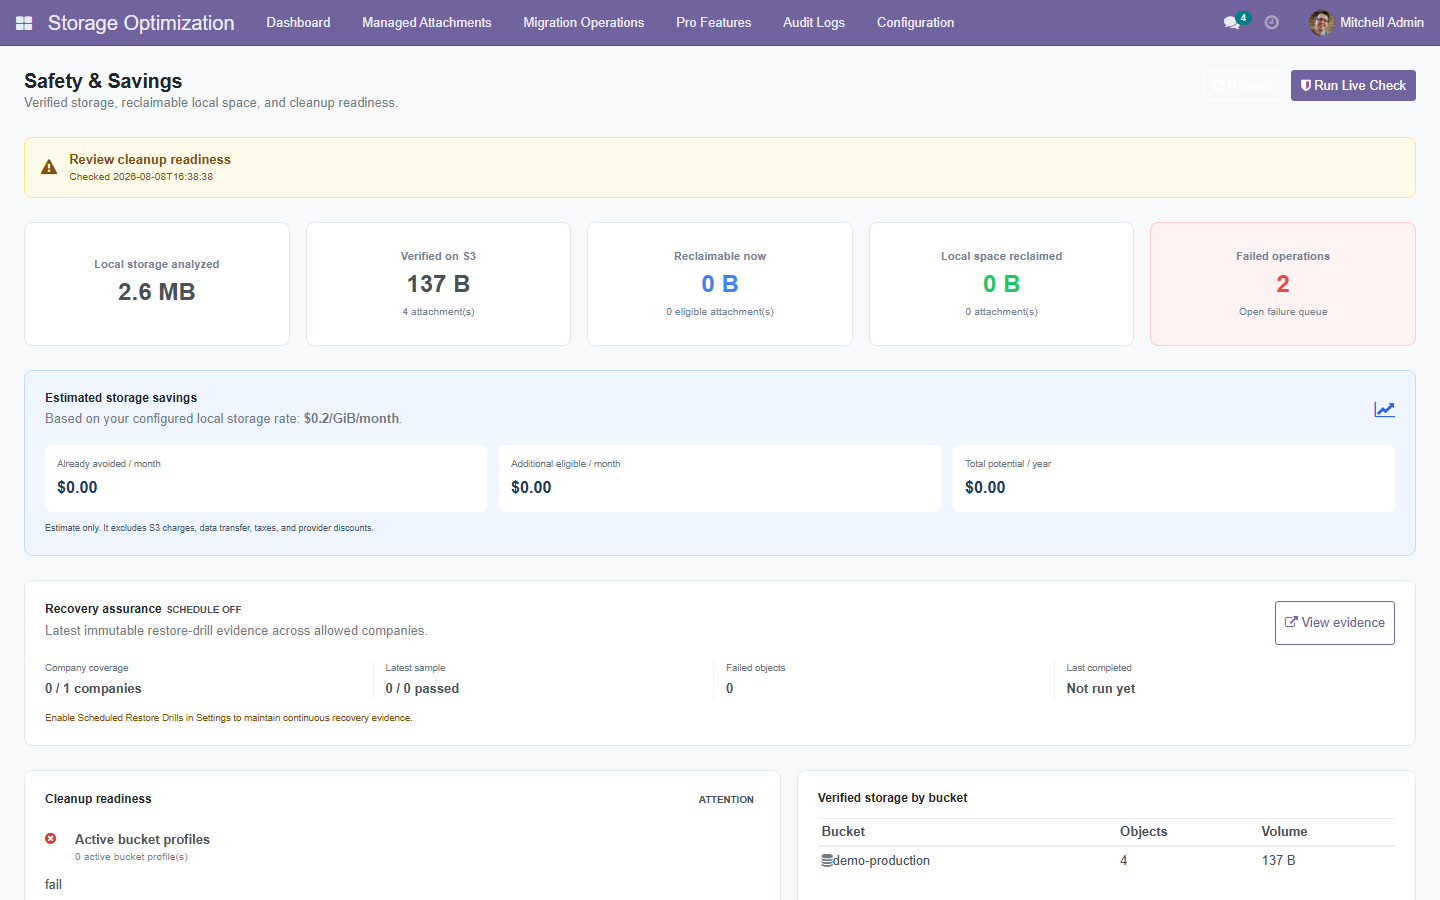
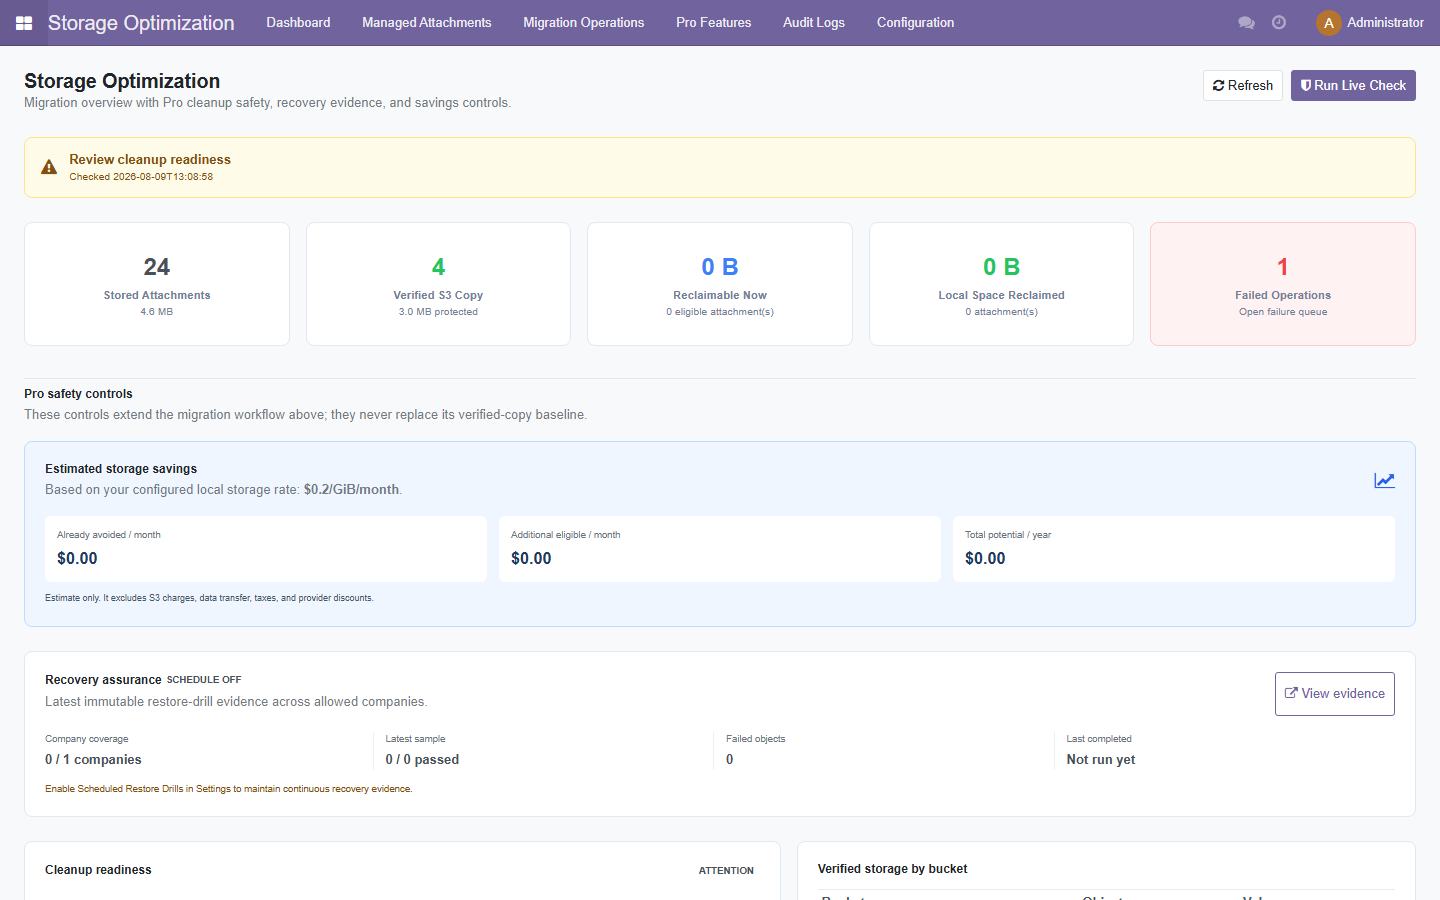
Align Pro dashboard with Free edition

diff --git a/attachment_optimizer_pro/static/description/index.html b/attachment_optimizer_pro/static/description/index.html
@@ -96,6 +96,6 @@ For subsequent modules, update content inside sections only. Do not alter sectio
     </div>
 
     <!-- FOOTER -->
-    <div style="border:1px solid #e2e8f0; border-radius:16px; padding:32px 24px; margin:40px 0 16px; text-align:center;"><div style="font-size:14px; font-weight:700; color:#1e293b; text-transform:uppercase;">Attachment Optimizer Pro</div><p style="font-size:13px; color:#64748b; line-height:1.6;">Automated, verified S3-compatible attachment lifecycle management for Odoo.</p><div style="display:inline-block; border:2px solid #4f46e5; color:#4f46e5; font-weight:700; font-size:13px; padding:10px 28px; border-radius:8px;">US$49 · One-Time · No Subscription</div><p style="font-size:11px; color:#94a3b8; margin:20px 0 0;">Version 15.0.1.0.18 · Built and maintained by FoxPink</p></div>
+    <div style="border:1px solid #e2e8f0; border-radius:16px; padding:32px 24px; margin:40px 0 16px; text-align:center;"><div style="font-size:14px; font-weight:700; color:#1e293b; text-transform:uppercase;">Attachment Optimizer Pro</div><p style="font-size:13px; color:#64748b; line-height:1.6;">Automated, verified S3-compatible attachment lifecycle management for Odoo.</p><div style="display:inline-block; border:2px solid #4f46e5; color:#4f46e5; font-weight:700; font-size:13px; padding:10px 28px; border-radius:8px;">US$49 · One-Time · No Subscription</div><p style="font-size:11px; color:#94a3b8; margin:20px 0 0;">Version 15.0.1.0.19 · Built and maintained by FoxPink</p></div>
   </div>
 </section>

diff --git a/attachment_optimizer_pro/static/src/components/pro_dashboard/pro_dashboard.scss b/attachment_optimizer_pro/static/src/components/pro_dashboard/pro_dashboard.scss
@@ -70,6 +70,7 @@ html .o_web_client .o_action_manager .o_pro_safety_dashboard {
 .o_pro_kpi_card small,
 .o_pro_kpi_label { color: #718096; }
 .o_pro_kpi_label { font-size: .95rem; font-weight: 600; }
+.o_pro_value_success { color: #22c55e; }
 .o_pro_kpi_action { cursor: pointer; transition: border-color .15s ease, box-shadow .15s ease; }
 .o_pro_kpi_action:hover,
 .o_pro_kpi_action:focus-visible { border-color: var(--o-brand-primary, #714b67); box-shadow: 0 0 0 3px rgba(113, 75, 103, .12); outline: 0; }
@@ -77,6 +78,17 @@ html .o_web_client .o_action_manager .o_pro_safety_dashboard {
 .o_pro_kpi_success strong { color: #22c55e; }
 .o_pro_kpi_danger { background: #fef2f2; border-color: #fecaca; }
 .o_pro_kpi_danger strong { color: #ef4444; }
+
+.o_pro_section_intro {
+    display: flex;
+    align-items: baseline;
+    justify-content: space-between;
+    gap: 16px;
+    margin: 32px 0 16px;
+    padding-top: 8px;
+    border-top: 1px solid #e2e8f0;
+}
+.o_pro_section_intro h3 { margin: 0 0 4px; font-size: 1rem; font-weight: 600; }
 
 .o_pro_savings_panel {
     margin-bottom: 24px;

diff --git a/attachment_optimizer_pro/__manifest__.py b/attachment_optimizer_pro/__manifest__.py
@@ -1,6 +1,6 @@
 {
     "name": "Attachment Optimizer Pro",
-    "version": "15.0.1.0.18",
+    "version": "15.0.1.0.19",
     "category": "Storage",
     "summary": "Automation, cleanup, routing and lifecycle for S3-compatible attachment storage.",
     "description": """

diff --git a/README.md b/README.md
@@ -8,7 +8,7 @@ Only update product content, version, links, compatibility status, screenshots, 
 
 ![Attachment Optimizer Pro](attachment_optimizer_pro/static/description/preview.png)
 
-**Version:** 15.0.1.0.18 -- **License:** OPL-1 -- **Publisher:** FoxPink -- Maintained for **Odoo 15.0**
+**Version:** 15.0.1.0.19 -- **License:** OPL-1 -- **Publisher:** FoxPink -- Maintained for **Odoo 15.0**
 
 ---
 
